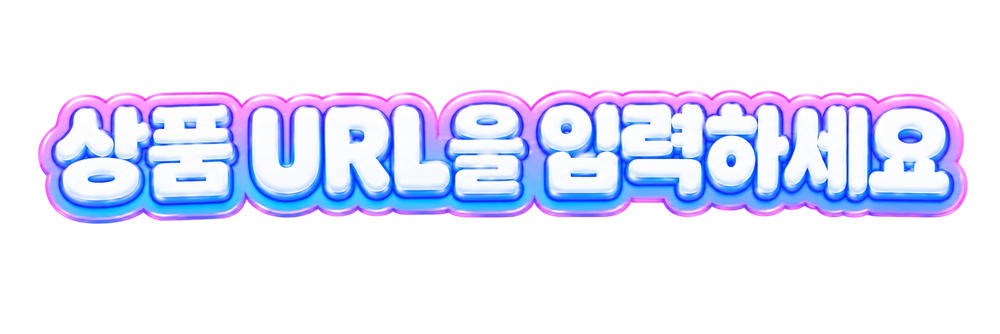
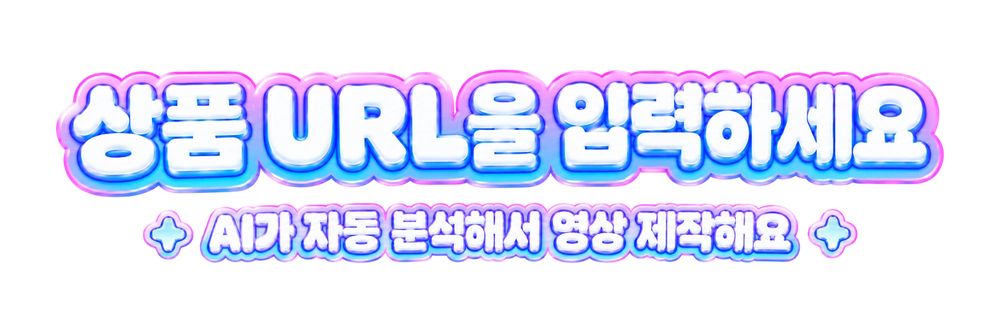
부제 텍스트를 삭제하고 헤딩 이미지에 통합된 버전으로 교체
Claude-Session: https://claude.ai/code/session_019RgKKpBfyx27gSoXqEJwwP

diff --git a/webapp/public/index.html b/webapp/public/index.html
@@ -16,8 +16,7 @@
     <!-- 1. URL 입력 -->
     <section id="view-input" class="view view-input">
       <div class="card hero-card">
-        <h1><img class="heading-img" src="/img/heading.png" alt="상품 URL을 입력하세요" /></h1>
-        <p class="hero-sub">AI가 자동 분석해 영상으로 제작해요</p>
+        <h1><img class="heading-img" src="/img/heading.png" alt="상품 URL을 입력하세요 - AI가 자동 분석해서 영상 제작해요" /></h1>
         <form id="url-form" class="url-form">
           <input
             id="url-input"
